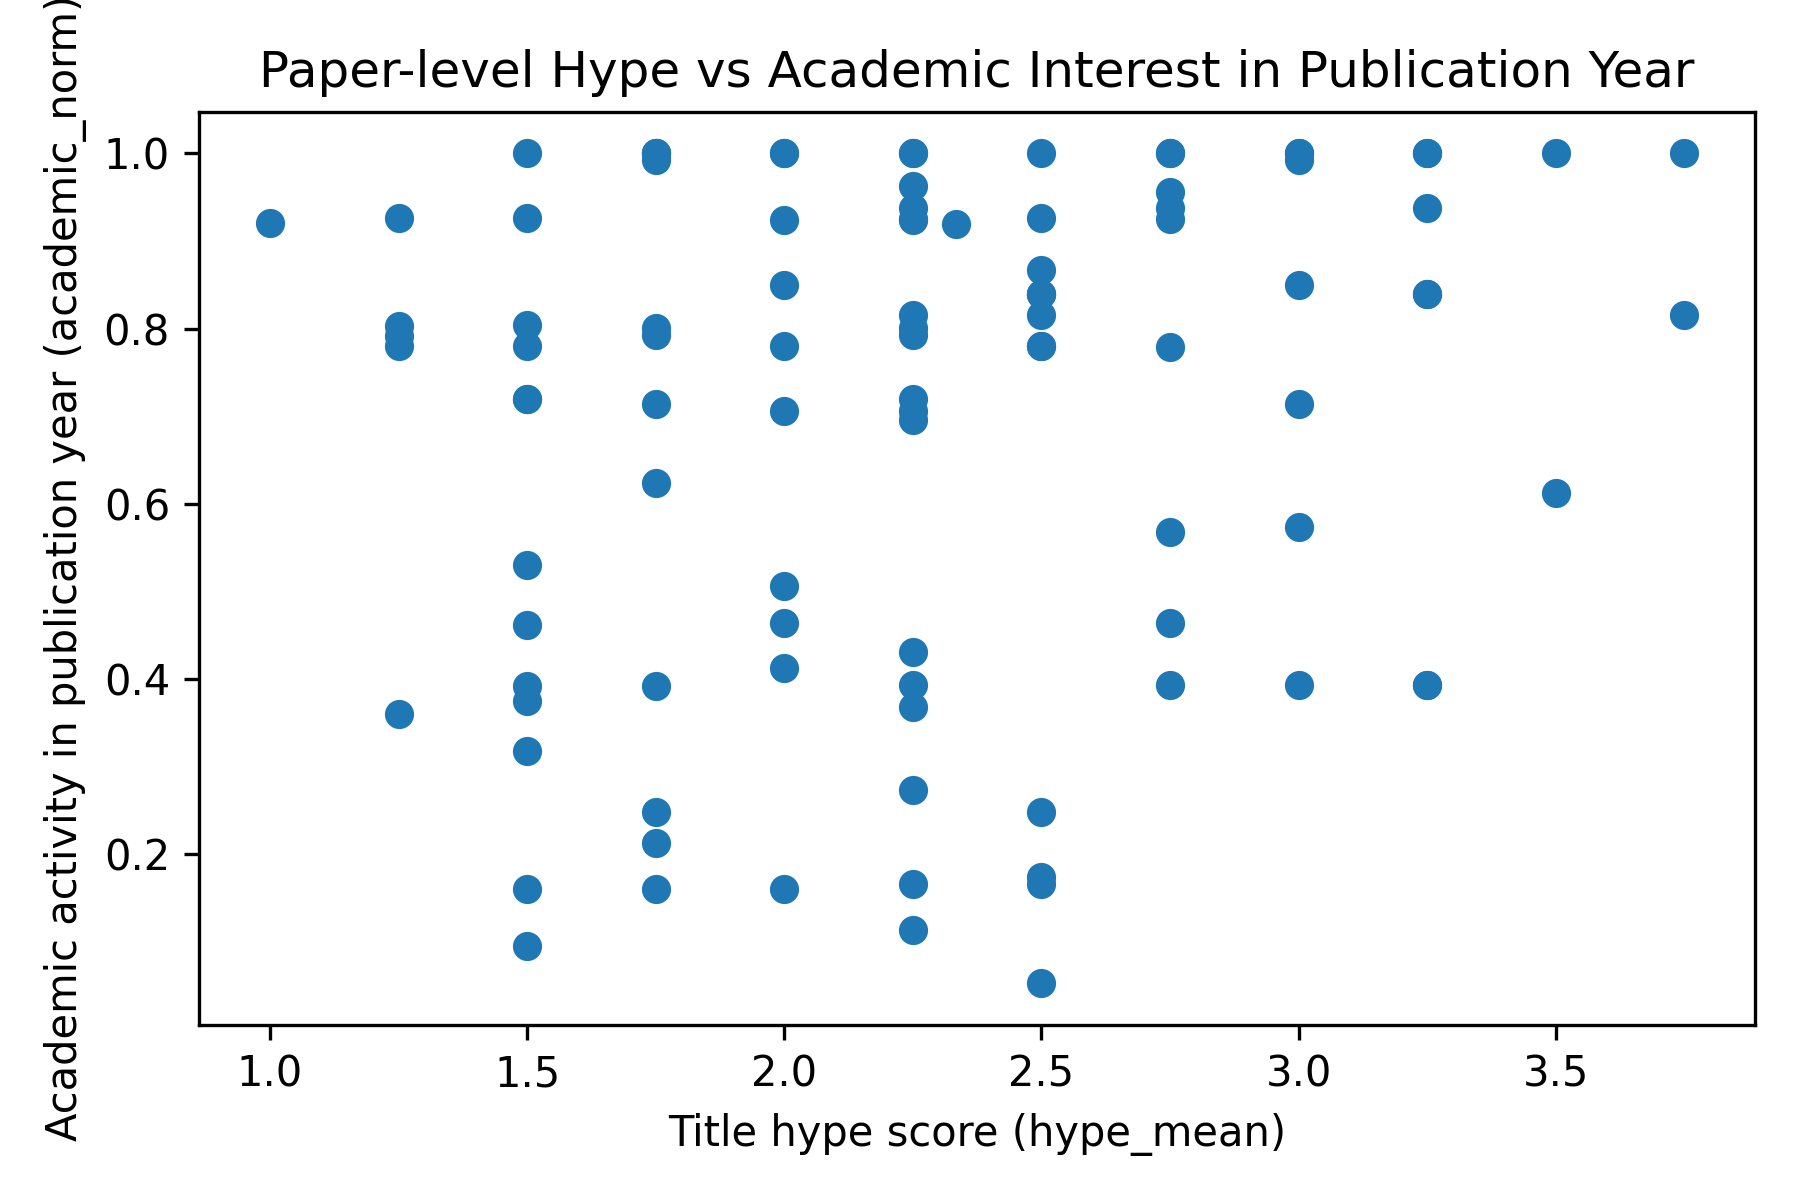
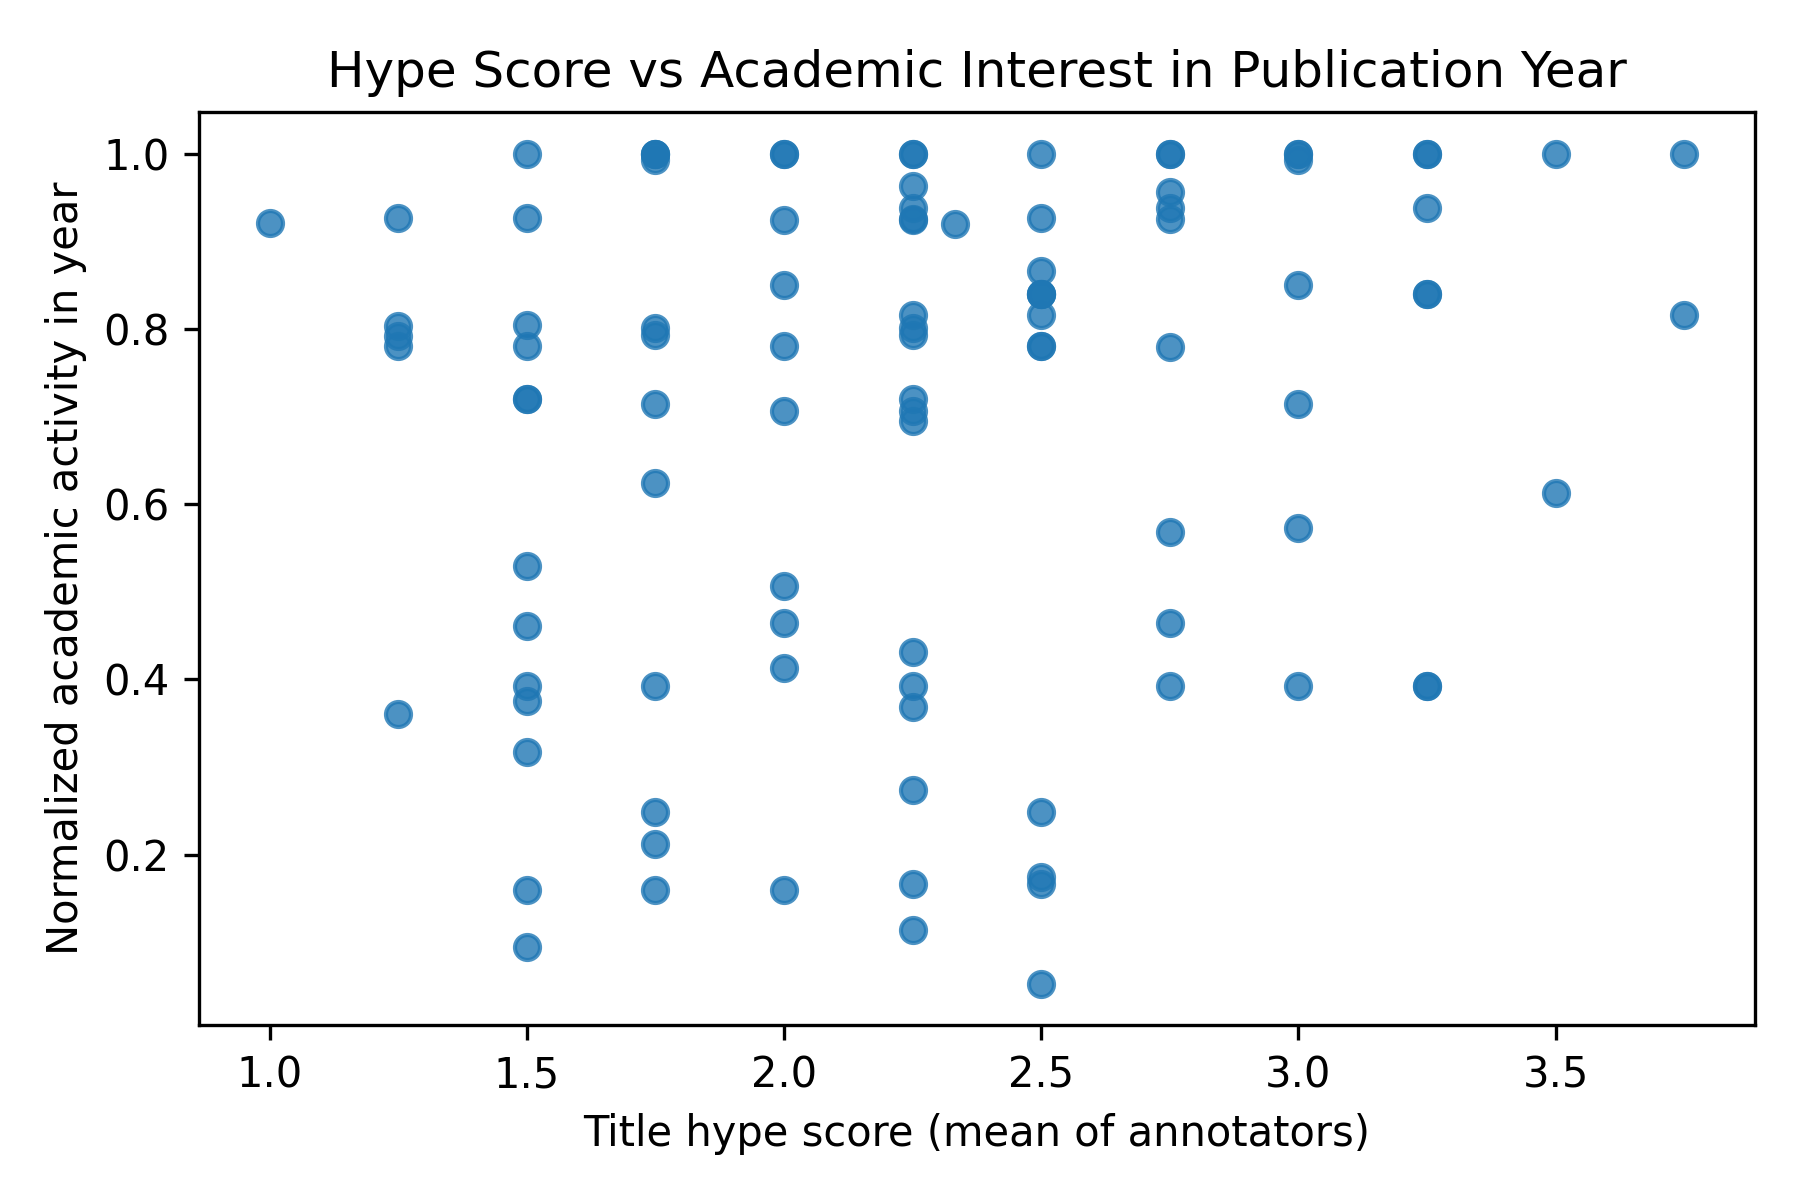
update scripts

diff --git a/code/RQ2.py b/code/RQ2.py
@@ -69,12 +69,14 @@ def scatter_grid(df: pd.DataFrame, x_col: str, y_col: str,
     keywords = sorted(df_sorted["keyword"].unique())
     n_keywords = len(keywords)
 
-    n_cols = 3
+    # Use 2 columns so each subplot is wider and easier to read in the PDF
+    n_cols = 2
     n_rows = (n_keywords + n_cols - 1) // n_cols
 
+    # Larger figure size so details survive ACM column scaling
     fig, axes = plt.subplots(
         n_rows, n_cols,
-        figsize=(4 * n_cols, 3.5 * n_rows),
+        figsize=(6 * n_cols, 3 * n_rows),  # e.g., for 10 keywords: 12 x 15 inches
         sharex=False,
         sharey=False
     )
@@ -87,17 +89,19 @@ def scatter_grid(df: pd.DataFrame, x_col: str, y_col: str,
             sub[x_col],
             sub[y_col],
             alpha=0.7,
-            edgecolor="none"
+            edgecolor="none",
+            s=25,  # bigger points so they are visible after shrinking in LaTeX
         )
-        ax.set_title(keyword, fontsize=9)
-        ax.set_xlabel(x_label, fontsize=8)
-        ax.set_ylabel(y_label, fontsize=8)
+        ax.set_title(keyword, fontsize=10)
+        ax.set_xlabel(x_label, fontsize=9)
+        ax.set_ylabel(y_label, fontsize=9)
         ax.grid(True, linestyle=":", alpha=0.5)
 
+    # Hide unused axes (for example if n_keywords is odd)
     for ax in axes[n_keywords:]:
         ax.set_visible(False)
 
-    fig.suptitle(title, y=0.98)
+    fig.suptitle(title, fontsize=12, y=0.98)
     plt.tight_layout(rect=[0, 0, 1, 0.95])
     plt.savefig(out_path, dpi=300, bbox_inches="tight")
     plt.close()
@@ -107,23 +111,26 @@ def scatter_grid(df: pd.DataFrame, x_col: str, y_col: str,
 def dual_axis_grid(df: pd.DataFrame, left_col: str, right_col: str,
                    left_label: str, right_label: str,
                    title: str, out_path: Path) -> None:
+    """
+    Create a grid of dual-axis time-series plots (one per keyword),
+    laid out similarly to the scatter_grid (2 columns, many rows)
+    so that each panel is wide enough to be readable in the PDF.
+    """
     df_sorted = df.sort_values(["keyword", "year"])
     keywords = sorted(df_sorted["keyword"].unique())
     n_keywords = len(keywords)
 
-    n_cols = 3
+    # Match layout style to scatter_grid: 2 columns, more rows
+    n_cols = 2
     n_rows = (n_keywords + n_cols - 1) // n_cols
 
-    fig, axes = plt.subplots(
-        n_rows, n_cols,
-        figsize=(5 * n_cols, 3.5 * n_rows),
-        sharex=True
-    )
+    fig, axes = plt.subplots(n_rows, n_cols, figsize=(10, 12))  # Fixed size
     axes = axes.flatten()
 
     for ax, keyword in zip(axes, keywords):
         sub = df_sorted[df_sorted["keyword"] == keyword]
 
+        # Left axis: academic_norm
         ax.plot(
             sub["year"],
             sub[left_col],
@@ -136,6 +143,7 @@ def dual_axis_grid(df: pd.DataFrame, left_col: str, right_col: str,
         ax.set_ylabel(left_label, fontsize=8)
         ax.grid(True, linestyle=":", alpha=0.5)
 
+        # Right axis: public_norm
         ax2 = ax.twinx()
         ax2.plot(
             sub["year"],
@@ -146,10 +154,11 @@ def dual_axis_grid(df: pd.DataFrame, left_col: str, right_col: str,
         )
         ax2.set_ylabel(right_label, fontsize=8)
 
+    # Hide unused axes if n_keywords is odd
     for ax in axes[n_keywords:]:
         ax.set_visible(False)
 
-    fig.suptitle(title, y=0.98)
+    fig.suptitle(title, fontsize=12, y=0.98)
     plt.tight_layout(rect=[0, 0, 1, 0.95])
     plt.savefig(out_path, dpi=300, bbox_inches="tight")
     plt.close()

diff --git a/code/merge_hype_with_context.py b/code/merge_hype_with_context.py
@@ -108,25 +108,34 @@ def main() -> None:
     print("Spearman:",
           dfc["hype_mean"].corr(dfc["academic_norm_in_year"], method="spearman"))
 
-    # ---------- 5) Plots ----------
+        # ---------- 5) Plots (RQ3 figures) ----------
 
-    # (a) Hype vs public interest at publication year
+    # (a) Global: Hype vs public interest at publication year
     plt.figure(figsize=(6, 4))
-    plt.scatter(dfc["hype_mean"], dfc["external_interest_in_publication_year"])
-    plt.xlabel("Title hype score (hype_mean)")
-    plt.ylabel("External interest in publication year (public_norm)")
-    plt.title("Paper-level Hype vs Public Interest at Publication Year")
+    plt.scatter(
+        dfc["hype_mean"],
+        dfc["external_interest_in_publication_year"],
+        alpha=0.8,
+    )
+    plt.xlabel("Title hype score (mean of annotators)")
+    plt.ylabel("Public interest (public_norm) in year")
+    plt.title("Hype Score vs Public Interest in Publication Year")
     plt.tight_layout()
-    plt.savefig(FIG_DIR / "hype_vs_public_interest.png", dpi=300)
+    out_main_public = FIG_DIR / "hype_vs_public_interest.png"
+    plt.savefig(out_main_public, dpi=300)
     plt.close()
-    print(f"[SAVE] {FIG_DIR / 'hype_vs_public_interest.png'}")
+    print(f"[SAVE] {out_main_public}")
 
-    # (b) Same, coloured by keyword (simple separate panels via loop)
+    # (b) Per-keyword panels: Hype vs public interest
     for kw, sub in dfc.groupby("keyword"):
         plt.figure(figsize=(5, 4))
-        plt.scatter(sub["hype_mean"], sub["external_interest_in_publication_year"])
-        plt.xlabel("Title hype score (hype_mean)")
-        plt.ylabel("External interest (public_norm)")
+        plt.scatter(
+            sub["hype_mean"],
+            sub["external_interest_in_publication_year"],
+            alpha=0.8,
+        )
+        plt.xlabel("Title hype score (mean of annotators)")
+        plt.ylabel("Public interest (public_norm) in year")
         plt.title(f"Hype vs Public Interest — {kw}")
         plt.tight_layout()
         fname = FIG_DIR / f"hype_vs_public_interest_{kw.replace(' ', '_')}.png"
@@ -134,16 +143,23 @@ def main() -> None:
         plt.close()
         print(f"[SAVE] {fname}")
 
-    # (c) Hype vs academic_norm_in_year
+    # (c) Global: Hype vs academic_norm_in_year
     plt.figure(figsize=(6, 4))
-    plt.scatter(dfc["hype_mean"], dfc["academic_norm_in_year"])
-    plt.xlabel("Title hype score (hype_mean)")
-    plt.ylabel("Academic activity in publication year (academic_norm)")
-    plt.title("Paper-level Hype vs Academic Interest in Publication Year")
+    plt.scatter(
+        dfc["hype_mean"],
+        dfc["academic_norm_in_year"],
+        alpha=0.8,
+    )
+    plt.xlabel("Title hype score (mean of annotators)")
+    plt.ylabel("Normalized academic activity in year")
+    plt.title("Hype Score vs Academic Interest in Publication Year")
     plt.tight_layout()
-    plt.savefig(FIG_DIR / "hype_vs_academic_in_year.png", dpi=300)
+    out_main_academic = FIG_DIR / "hype_vs_academic_in_year.png"
+    plt.savefig(out_main_academic, dpi=300)
     plt.close()
-    print(f"[SAVE] {FIG_DIR / 'hype_vs_academic_in_year.png'}")
+    print(f"[SAVE] {out_main_academic}")
+
+
 
         # ---------- 6) Per-buzzword correlations ----------
     print("\n=== Per-buzzword correlations (hype_mean vs public_norm) ===")
